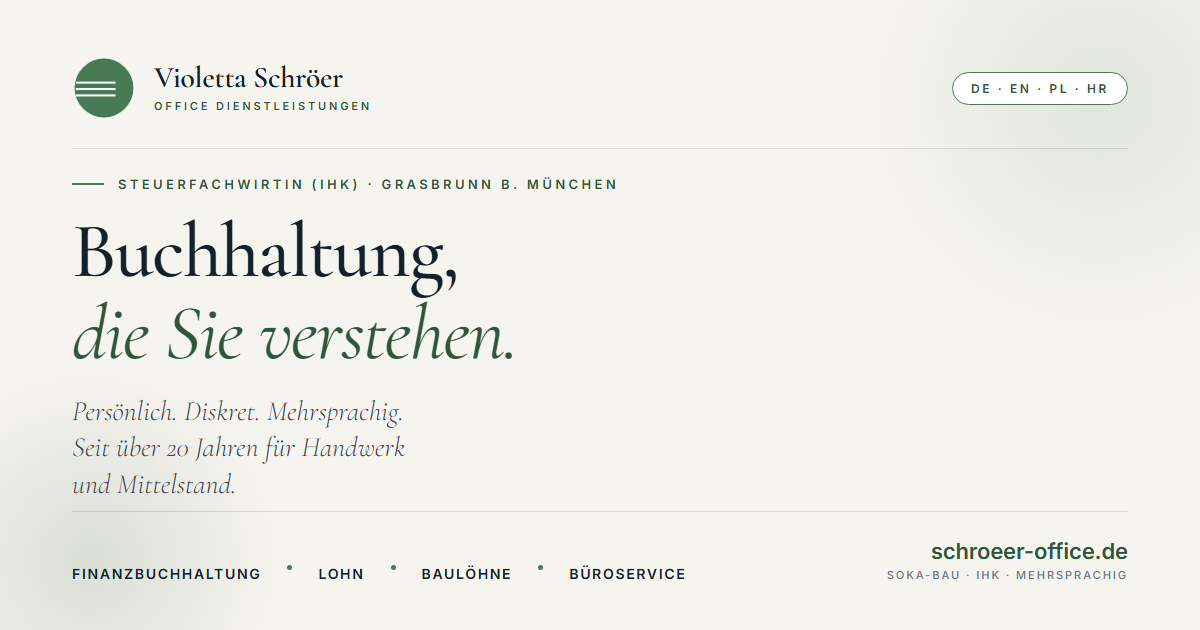
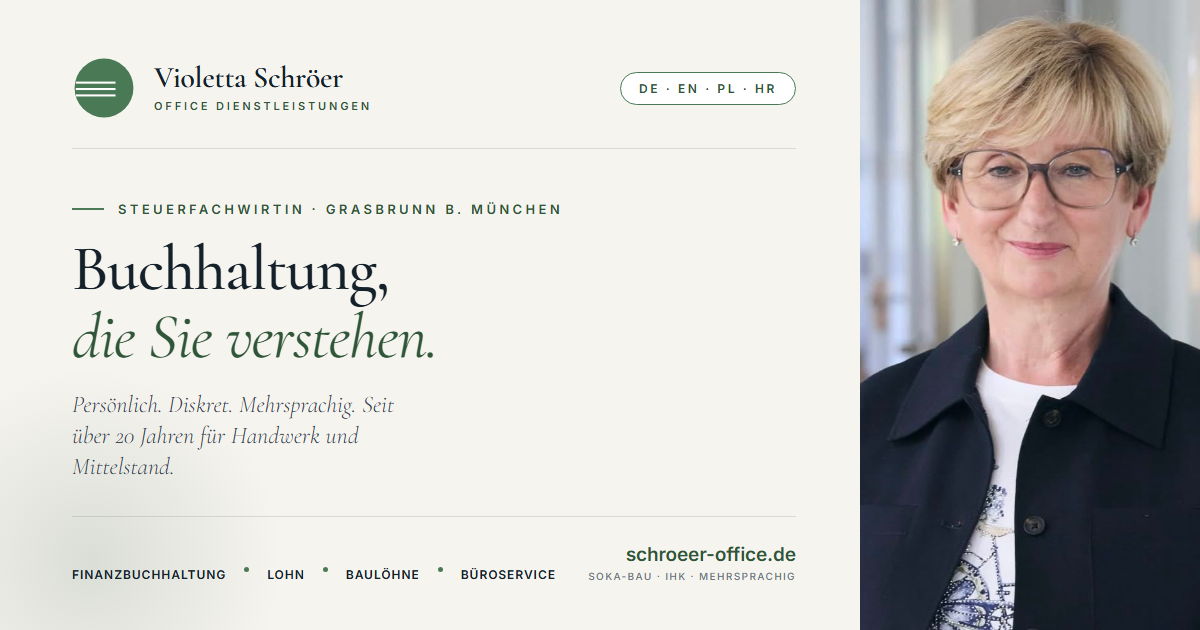
feat(seo): Portraet in strukturierten Daten und Vorschaubild, engerer About-Zuschnitt
- schema.org image (Person + LocalBusiness) zeigt statt des alten Passfotos auf
  assets/img/violetta-schroeer.jpg (1000x1000, Shooting 10.09.2026)
- og-image-Template v3: Portrait rechts, Text links; og-image.png neu gerendert
- About-Bild enger geschnitten (1000x1406 = Rahmenverhaeltnis), Gesicht bleibt bei
  kleiner Anzeigebreite erkennbar, kein CSS-Beschnitt mehr
- CLAUDE.md als Projekteinstieg aktualisiert (Zweck, Stack, Build-Kette, Stand)

diff --git a/assets/og-image-template.html b/assets/og-image-template.html
@@ -1,6 +1,7 @@
 <!DOCTYPE html>
 <!--
-  og-image-Template v2 (1200×630 px) – brand-first, ohne Portrait
+  og-image-Template v3 (1200×630 px) – brand-first, Portrait rechts
+  v3 (2026-09-22): Porträt aus dem Shooting 10.09.2026 ergänzt
   Generieren via build-og-image.ps1 (Headless Chrome)
 -->
 <html lang="de">
@@ -17,8 +18,17 @@ body {
   position: relative;
   color: #14202a;
   display: flex; flex-direction: column;
-  padding: 56px 72px 48px;
+  padding: 56px 404px 48px 72px;   /* rechts Platz fuer das Portrait */
 }
+
+/* ===== Portrait rechts ===== */
+.portrait {
+  position: absolute; top: 0; right: 0;
+  width: 340px; height: 630px;
+  object-fit: cover; object-position: 56% 6%;
+  z-index: 1;
+}
+.portrait::after { content: ""; }
 
 /* dezente Texturen aus dem Grün */
 body::before {
@@ -89,11 +99,11 @@ body::after {
 
 h1 {
   font-family: 'Cormorant Garamond', serif;
-  font-size: 78px; font-weight: 500;
+  font-size: 64px; font-weight: 500;
   line-height: 1.06; letter-spacing: -.02em;
   margin: 0 0 14px;
   color: #14202a;
-  max-width: 18ch;
+  max-width: 13ch;
 }
 h1 .accent {
   color: #2f5638;
@@ -104,9 +114,9 @@ h1 .accent {
 .tagline {
   font-family: 'Cormorant Garamond', serif;
   font-style: italic; font-weight: 300;
-  font-size: 28px; line-height: 1.3;
+  font-size: 24px; line-height: 1.3;
   color: #3a4854;
-  max-width: 30ch;
+  max-width: 34ch;
   margin-top: 4px;
 }
 
@@ -118,10 +128,10 @@ h1 .accent {
   gap: 30px;
 }
 .services {
-  display: flex; gap: 22px; flex-wrap: wrap;
+  display: flex; gap: 14px; flex-wrap: nowrap;
   font-family: 'Inter', sans-serif;
-  font-size: 14px; font-weight: 600;
-  letter-spacing: .12em; text-transform: uppercase;
+  font-size: 12px; font-weight: 600;
+  letter-spacing: .08em; text-transform: uppercase;
   color: #14202a;
 }
 .services .dot {
@@ -134,21 +144,24 @@ h1 .accent {
 }
 .url-block .url {
   font-family: 'Inter', sans-serif;
-  font-size: 22px; font-weight: 700;
-  color: #2f5638;
+  font-size: 19px; font-weight: 700;
+  color: #2f5638; white-space: nowrap;
   letter-spacing: -.005em;
 }
 .url-block .meta {
   font-family: 'Inter', sans-serif;
-  font-size: 11px; font-weight: 500;
-  letter-spacing: .18em; text-transform: uppercase;
-  color: #6c7884;
+  font-size: 10px; font-weight: 500;
+  letter-spacing: .14em; text-transform: uppercase;
+  color: #6c7884; white-space: nowrap;
   margin-top: 4px;
 }
 </style>
 <link rel="stylesheet" href="fonts/fonts.css"/>
 </head>
 <body>
+
+<!-- Portrait rechts (Shooting 10.09.2026) -->
+<img class="portrait" src="img/violetta-schroeer.jpg" alt=""/>
 
 <!-- TOP: Logo + Sprachen-Pill -->
 <div class="top">

diff --git a/en/index.html b/en/index.html
@@ -99,7 +99,7 @@
   "alternateName": "Schröer Office Dienstleistungen",
   "description": "Steuerfachwirtin in Grasbrunn bei München. Persönliche Finanzbuchhaltung, Lohnbuchhaltung, Baulöhne und Büroservice für KMU, Handwerk und Selbstständige. Mehrsprachig DE/EN/PL/HR.",
   "url": "https://schroeer-office.de",
-  "image": "https://schroeer-office.de/assets/img/Frau-Schröer.png",
+  "image": "https://schroeer-office.de/assets/img/violetta-schroeer.jpg",
   "telephone": "+498966682201",
   "email": "info@schroeer-office.de",
   "founder": { "@id": "https://schroeer-office.de/#person" },
@@ -158,7 +158,7 @@
     "credentialCategory": "Steuerfachwirtin",
     "recognizedBy": { "@type": "Organization", "name": "IHK München und Oberbayern" }
   },
-  "image": "https://schroeer-office.de/assets/img/Frau-Schröer.png"
+  "image": "https://schroeer-office.de/assets/img/violetta-schroeer.jpg"
 }
 </script>
 

diff --git a/hr/index.html b/hr/index.html
@@ -99,7 +99,7 @@
   "alternateName": "Schröer Office Dienstleistungen",
   "description": "Steuerfachwirtin in Grasbrunn bei München. Persönliche Finanzbuchhaltung, Lohnbuchhaltung, Baulöhne und Büroservice für KMU, Handwerk und Selbstständige. Mehrsprachig DE/EN/PL/HR.",
   "url": "https://schroeer-office.de",
-  "image": "https://schroeer-office.de/assets/img/Frau-Schröer.png",
+  "image": "https://schroeer-office.de/assets/img/violetta-schroeer.jpg",
   "telephone": "+498966682201",
   "email": "info@schroeer-office.de",
   "founder": { "@id": "https://schroeer-office.de/#person" },
@@ -158,7 +158,7 @@
     "credentialCategory": "Steuerfachwirtin",
     "recognizedBy": { "@type": "Organization", "name": "IHK München und Oberbayern" }
   },
-  "image": "https://schroeer-office.de/assets/img/Frau-Schröer.png"
+  "image": "https://schroeer-office.de/assets/img/violetta-schroeer.jpg"
 }
 </script>
 

diff --git a/index.html b/index.html
@@ -99,7 +99,7 @@
   "alternateName": "Schröer Office Dienstleistungen",
   "description": "Steuerfachwirtin in Grasbrunn bei München. Persönliche Finanzbuchhaltung, Lohnbuchhaltung, Baulöhne und Büroservice für KMU, Handwerk und Selbstständige. Mehrsprachig DE/EN/PL/HR.",
   "url": "https://schroeer-office.de",
-  "image": "https://schroeer-office.de/assets/img/Frau-Schröer.png",
+  "image": "https://schroeer-office.de/assets/img/violetta-schroeer.jpg",
   "telephone": "+498966682201",
   "email": "info@schroeer-office.de",
   "founder": { "@id": "https://schroeer-office.de/#person" },
@@ -158,7 +158,7 @@
     "credentialCategory": "Steuerfachwirtin",
     "recognizedBy": { "@type": "Organization", "name": "IHK München und Oberbayern" }
   },
-  "image": "https://schroeer-office.de/assets/img/Frau-Schröer.png"
+  "image": "https://schroeer-office.de/assets/img/violetta-schroeer.jpg"
 }
 </script>
 

diff --git a/pl/index.html b/pl/index.html
@@ -99,7 +99,7 @@
   "alternateName": "Schröer Office Dienstleistungen",
   "description": "Steuerfachwirtin in Grasbrunn bei München. Persönliche Finanzbuchhaltung, Lohnbuchhaltung, Baulöhne und Büroservice für KMU, Handwerk und Selbstständige. Mehrsprachig DE/EN/PL/HR.",
   "url": "https://schroeer-office.de",
-  "image": "https://schroeer-office.de/assets/img/Frau-Schröer.png",
+  "image": "https://schroeer-office.de/assets/img/violetta-schroeer.jpg",
   "telephone": "+498966682201",
   "email": "info@schroeer-office.de",
   "founder": { "@id": "https://schroeer-office.de/#person" },
@@ -158,7 +158,7 @@
     "credentialCategory": "Steuerfachwirtin",
     "recognizedBy": { "@type": "Organization", "name": "IHK München und Oberbayern" }
   },
-  "image": "https://schroeer-office.de/assets/img/Frau-Schröer.png"
+  "image": "https://schroeer-office.de/assets/img/violetta-schroeer.jpg"
 }
 </script>
 

diff --git a/CLAUDE.md b/CLAUDE.md
@@ -1,16 +1,34 @@
-# CLAUDE.md — Website VSO 2026
+# CLAUDE.md — Website VSO 2026 (schroeer-office.de)
 
 > Teil des Workspace `00_KI_Work` · Strang **02_GIT** · Router + globaler Kontext: Root-Master `00_KI_Work\CLAUDE.md` (§0 Projekt-Router).
+> **Dieses Repo ist oeffentlich** — keine Kundeninterna, Preise oder Zugaenge hier ablegen.
 
 ## Zweck
-Kunden-Website VSO 2026.
+Website der Kundin Violetta Schroeer — Office Dienstleistungen, Steuerfachwirtin (IHK) in
+Grasbrunn bei Muenchen. Statischer OnePager in vier Sprachen (DE/EN/PL/HR), Ziel ist die
+Gewinnung lokaler Buchhaltungs- und Lohnmandate.
 
 ## Stack / Technik
-- beim ersten Arbeiten ergaenzen (erkennbare Technik: siehe Ordnerinhalt / package.json / index.html).
+Vanilla HTML + CSS + JS, kein Framework. GitHub Pages aus `main`, Domain per CNAME.
+Sprachversionen unter `/en/`, `/pl/`, `/hr/` werden aus `index.html` **generiert**
+(`build-i18n.ps1`) — dort nie von Hand editieren. Vorschaubild ebenfalls generiert
+(`build-og-image.ps1` aus `assets/og-image-template.html`).
+
+**Nach jeder Aenderung an `index.html`:** `.\build-i18n.ps1` → commit → push → live pruefen.
+Bei reinen CSS-, JS- oder Bildaenderungen entfaellt der Build.
 
 ## Stand / offen / naechster Schritt
-- **Stand:** 19.07.2026 — Projekt-CLAUDE.md als Startgeruest angelegt (Migration nach OneDrive 00_KI_Work).
-- **Offen:** —
-- **Naechster Schritt:** beim naechsten Arbeiten Zweck/Stack/Stand konkretisieren.
+- **Stand:** 22.09.2026 — Portraetfoto der Kundin im Bereich "Ueber mich" und in den
+  strukturierten Daten, neues Vorschaubild mit Portrait. Zwei Altlasten behoben: About-Fotos
+  waren unter 980px Breite unsichtbar, und in den Sprachversionen liefen alle
+  Inline-Hintergrundbilder auf 404.
+- **Offen:** Off-Site-Sichtbarkeit — Google Unternehmensprofil fehlt, Verzeichniseintraege
+  tragen einen falschen Vornamen ("Wioletta"/"Violatta").
+- **Naechster Schritt:** Unternehmensprofil anlegen und die Verzeichnisdaten korrigieren.
+
+## Wissen zum Projekt
+Fachwissen, Fallstricke und der Sichtbarkeitsstand liegen **ausserhalb dieses Repos** im
+Kundenordner: `02_GIT\kunden\VSO 2026\docs\wiki\` (Index: `README.md`), Umsetzungs-Runbooks
+in `02_GIT\kunden\VSO 2026\docs\`.
 
 *CI 2026.01 · Grundke IT-Service · www.grundke-it.de*
